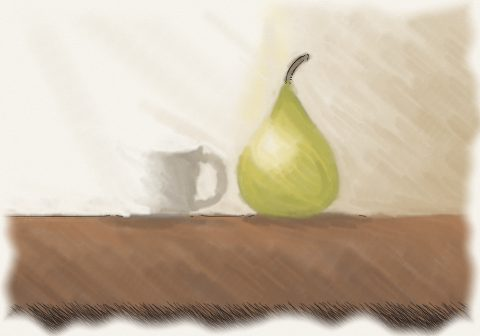
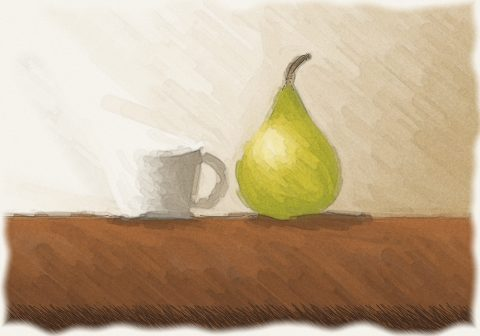
수채 담채를 참고 수채화(채도 높고 면이 또렷한 wet-on-dry)에 맞춤
- 담채 목표 색: 채도 1.6배, 어두운 곳은 어둡게 (0.92·c + 0.08), 여백 문턱 위는 종이
- 붓 자국: 앞 층은 젖은 붓으로 번지게, 마지막 두 층은 마른 종이 위에 또렷한 면 (Canvas.dab soft 인자)
- pigmentEdges: 경계 안료 고임 0.34 + 칠한 곳의 입자감 얼룩
- 컬러 모드의 담채 위 어두운 붓·윤곽 색은 검정이 아니라 그 자리 색을 짙게 누른 색
- 프리셋: passes 4, detail 80, accuracy 72, ink 60, paperKeep 62, edges 45, vignette 15
- 갤러리 예시 그림 재생성, CLAUDE.md 갱신

Claude-Session: https://claude.ai/code/session_01Hvnc9GgokccTnGmXxLxTkb

diff --git a/src/render.ts b/src/render.ts
@@ -302,7 +302,7 @@ class Canvas {
     }
   }
   /** 젖은 붓 자국: 가운데는 고르고 가장자리는 부드럽다 */
-  dab(cx: number, cy: number, r: number) {
+  dab(cx: number, cy: number, r: number, soft = true) {
     const x0 = Math.max(0, Math.floor(cx - r)), x1 = Math.min(this.w - 1, Math.ceil(cx + r));
     const y0 = Math.max(0, Math.floor(cy - r)), y1 = Math.min(this.h - 1, Math.ceil(cy + r));
     const { sw, w } = this;
@@ -310,7 +310,8 @@ class Canvas {
       const d = Math.hypot(x + 0.5 - cx, y + 0.5 - cy) / r;
       if (d >= 1) continue;
       const q = 1 - d * d;
-      const c = q * q; // 젖은 붓: 가운데 진하고 가장자리로 부드럽게 번진다
+      // 젖은 붓(soft): 가운데 진하고 가장자리로 부드럽게 번진다. 마른 종이 위(wet-on-dry): 가장자리가 또렷한 채색 면
+      const c = soft ? q * q : (d < 0.8 ? 1 : (1 - d) / 0.2);
       const i = y * w + x;
       if (sw[i] === 0) this.touched.push(i);
       if (c > sw[i]) sw[i] = c;
@@ -636,7 +637,7 @@ function sweepsFor(p: PaintProfile): Sweep[] {
  * 수채 담채 층 (DAP 그대로): 붓 크기 R 의 붓 자국을, 캔버스 색이 목표 색과 다른 칸에만 방향장을 따라 얹는다.
  * 다른 면(목표 색이 크게 다른 곳)으로 넘어가면 멈춘다.
  */
-function washSweep(c: Ctx, want: Float32Array, R: number, T: number, onTick?: (frac: number) => void) {
+function washSweep(c: Ctx, want: Float32Array, R: number, T: number, soft: boolean, onTick?: (frac: number) => void) {
   const { w, h, cv, rng, field } = c;
   const g = Math.max(3, R * 0.55);
   const cols = Math.ceil(w / g), rows = Math.ceil(h / g);
@@ -666,7 +667,7 @@ function washSweep(c: Ctx, want: Float32Array, R: number, T: number, onTick?: (f
       if (xi < 0 || yi < 0 || xi >= w || yi >= h) break;
       const o = (yi * w + xi) * 3;
       if (Math.abs(want[o] - col[0]) + Math.abs(want[o + 1] - col[1]) + Math.abs(want[o + 2] - col[2]) > 60) break;
-      cv.dab(x, y, R / 2);
+      cv.dab(x, y, R / 2, soft);
       const i = yi * w + xi;
       if (field.coh[i] > 0.15 || field.man[i] > 0.1) {
         let [fx, fy] = dirAt(c, i, 0);
@@ -695,13 +696,13 @@ function washTarget(img: RawImage, lum: Float32Array, white: number, w: number, 
     const L = softL[i];
     const o = i * 3;
     // 여백 문턱 위는 종이, 그 아래는 사진 색을 물감처럼 조금 띄우고 채도를 살려 종이에 곱한다. 문턱 근처는 부드럽게 이어진다
-    const op = clamp((white + 0.08 - L) / 0.16, 0, 1) * 0.9;
+    const op = clamp((white + 0.08 - L) / 0.16, 0, 1) * 0.95;
     if (op <= 0.01) { want[o] = paper[0]; want[o + 1] = paper[1]; want[o + 2] = paper[2]; continue; }
     let tr: number, tg: number, tb: number;
     if (mode === 'color') {
       const r = chans[0][i], g = chans[1][i], b = chans[2][i], m = (r + g + b) / 3;
-      const sat = 1.35; // 담채는 사진보다 맑고 선명하게
-      tr = clamp(m + (r - m) * sat, 0, 1) * 0.85 + 0.15; tg = clamp(m + (g - m) * sat, 0, 1) * 0.85 + 0.15; tb = clamp(m + (b - m) * sat, 0, 1) * 0.85 + 0.15;
+      const sat = 1.6; // 참고 수채화처럼 채도는 높이고, 어두운 곳은 어둡게 남긴다
+      tr = clamp(m + (r - m) * sat, 0, 1) * 0.92 + 0.08; tg = clamp(m + (g - m) * sat, 0, 1) * 0.92 + 0.08; tb = clamp(m + (b - m) * sat, 0, 1) * 0.92 + 0.08;
     } else {
       const g = L * 0.8 + 0.2;
       if (mode === 'sepia') { tr = g * 0.92 + 0.08; tg = g * 0.82 + 0.1; tb = g * 0.66 + 0.1; } else { tr = g; tg = g; tb = g; }
@@ -712,15 +713,18 @@ function washTarget(img: RawImage, lum: Float32Array, white: number, w: number, 
 }
 
 /** 젖은 담채가 마르면서 경계에 안료가 고이는 효과: 캔버스 밝기의 그라디언트가 큰 곳을 조금 어둡게 */
-function pigmentEdges(cv: Canvas, amount: number) {
+function pigmentEdges(cv: Canvas, amount: number, rng: () => number) {
   const { w, h } = cv;
   const N = w * h;
   const lum = new Float32Array(N);
   for (let i = 0; i < N; i++) lum[i] = (0.299 * cv.rgb[i * 3] + 0.587 * cv.rgb[i * 3 + 1] + 0.114 * cv.rgb[i * 3 + 2]) / 255;
   const { mag } = sobel(boxBlur(lum, w, h, 1), w, h);
+  // 안료 입자감(granulation): 칠한 곳일수록 거친 무작위 얼룩
+  const grain = boxBlur(Float32Array.from({ length: N }, () => rng() - 0.5), w, h, 1);
   for (let i = 0; i < N; i++) {
-    const k = clamp(mag[i] * 2.5, 0, 1) * amount * (1 - lum[i] * 0.5);
-    if (k <= 0.005) continue;
+    const painted = clamp((0.97 - lum[i]) * 3, 0, 1);
+    const k = clamp(mag[i] * 2.5, 0, 1) * amount * (1 - lum[i] * 0.5) - grain[i] * 0.22 * painted;
+    if (Math.abs(k) <= 0.004) continue;
     const o = i * 3;
     cv.rgb[o] *= 1 - k; cv.rgb[o + 1] *= 1 - k; cv.rgb[o + 2] *= 1 - k;
   }
@@ -796,9 +800,11 @@ export function renderDrawing(img: RawImage, opts: RenderOpts): RawImage {
   if (opts.color === 'sepia') inkC = [74, 46, 28];
   // 컬러 펜: 사진 색을 잉크색과 섞어 어둡게 누른 색
   let colorAt: (i: number) => RGB = () => inkC;
-  if (opts.color === 'color' && p.brush !== 'wash') {
+  if (opts.color === 'color') {
     const soft = [0, 1, 2].map((k) => { const a = new Float32Array(N); for (let i = 0, q = 0; i < img.data.length; i += 4, q++) a[q] = img.data[i + k]; return boxBlur(a, w, h, 3); });
-    colorAt = (i) => [inkC[0] * 0.35 + soft[0][i] * 0.45, inkC[1] * 0.35 + soft[1][i] * 0.45, inkC[2] * 0.35 + soft[2][i] * 0.45];
+    // 펜: 사진 색을 잉크색과 섞어 누른 색. 담채 위의 어두운 붓: 그 자리 색을 더 진하게 (검정 펜이 아니라 짙은 물감)
+    const ki = p.brush === 'wash' ? 0.45 : 0.35, kc = p.brush === 'wash' ? 0.5 : 0.45;
+    colorAt = (i) => [inkC[0] * ki + soft[0][i] * kc, inkC[1] * ki + soft[1][i] * kc, inkC[2] * ki + soft[2][i] * kc];
   }
   const acc = clamp(p.accuracy, 0, 100) / 100;
   const c: Ctx = {
@@ -829,11 +835,12 @@ export function renderDrawing(img: RawImage, opts: RenderOpts): RawImage {
     const want = washTarget(img, lum, white, w, h, paper, opts.color);
     for (let k = 0; k < passes; k++) {
       const R = Math.max(4, sizes[k] * 1.3);
-      washSweep(c, want, R, 4 + 10 * (1 - acc), (f) => report(k, f));
+      // 앞 층은 젖은 붓으로 큰 색면을 번지게, 뒤 층은 마른 종이 위에 또렷한 면을 얹는다 (참고 수채화의 wet-on-dry 층)
+      washSweep(c, want, R, 4 + 10 * (1 - acc), k < passes - 2, (f) => report(k, f));
       report(k, 1, true);
     }
     // 물감이 마르며 가장자리에 고이는 안료: 캔버스 밝기의 경계를 조금 어둡게
-    pigmentEdges(cv, 0.22);
+    pigmentEdges(cv, 0.34, mulberry32(77));
     // 펜: 잉크 농도가 있을 때만 가장 어두운 곳에 성긴 획 (순수 수채는 ink 0)
     if (p.ink >= 30) {
       const ref = boxBlur(target, w, h, 1);

diff --git a/src/types.ts b/src/types.ts
@@ -109,7 +109,7 @@ export const PAINT_FOR_STYLE: Record<PenStyle, PaintProfile> = {
   ghibli: { ...CLASSIC_PAINT, passes: 3, brushSize: 55, detail: 60, accuracy: 50, strokeLength: 65, featureFollow: 60, baseAngle: 30, randomness: 20, lineWidth: 1.4, ink: 70, paperKeep: 60, edges: 65 },
   webtoon: { ...CLASSIC_PAINT, brush: 'contour', passes: 3, brushSize: 50, detail: 65, accuracy: 55, strokeLength: 60, featureFollow: 60, baseAngle: 45, randomness: 10, lineWidth: 1.8, ink: 90, paperKeep: 62, edges: 95 },
   manga: { ...CLASSIC_PAINT, passes: 4, brushSize: 40, detail: 90, accuracy: 70, strokeLength: 60, featureFollow: 20, baseAngle: 45, randomness: 5, lineWidth: 1, ink: 90, paperKeep: 55, edges: 85 },
-  watercolor: { ...RICHEON_PAINT, brush: 'wash', passes: 4, brushSize: 75, detail: 70, accuracy: 65, strokeLength: 50, featureFollow: 70, baseAngle: 40, randomness: 35, ink: 45, paperKeep: 60, edges: 35, vignette: 25 },
+  watercolor: { ...RICHEON_PAINT, brush: 'wash', passes: 4, brushSize: 70, detail: 80, accuracy: 72, strokeLength: 50, featureFollow: 70, baseAngle: 40, randomness: 35, lineWidth: 1.6, ink: 60, paperKeep: 62, edges: 45, vignette: 15 },
 };
 
 /** 숙련도별로 화풍 설정을 단순화한다 (견본이 없을 때 출발점). 초급은 층·세밀함을 줄이고 굵은 펜으로 */
